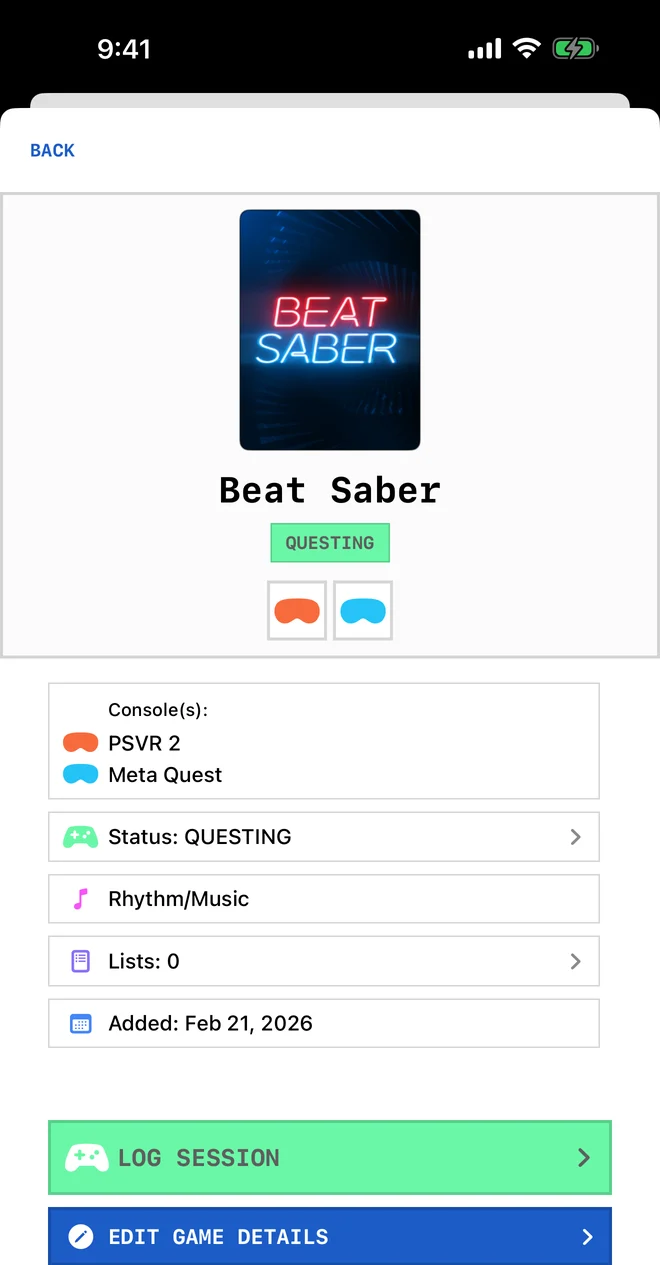
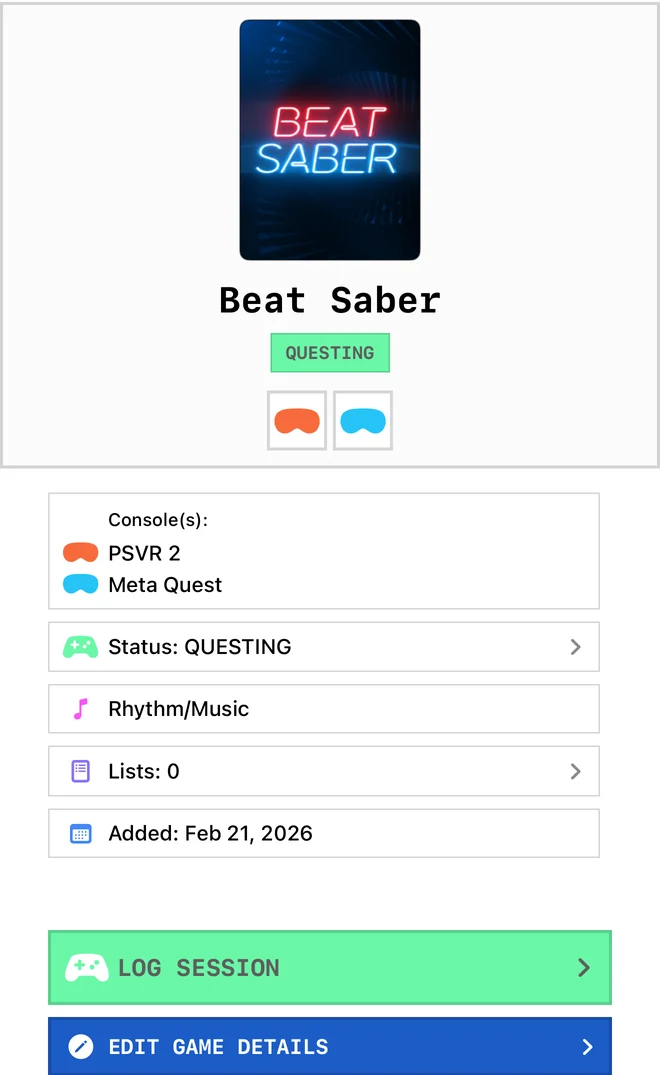
Game page cropped clean; lock card removed

diff --git a/index.html b/index.html
@@ -228,6 +228,8 @@ a{color:var(--action)}
 .chipline i{font-style:normal;font:12px/1.2 ui-monospace,Menlo,monospace;padding:5px 8px;color:var(--ink);
   border:1px solid color-mix(in srgb,var(--action) 35%,var(--rule));background:color-mix(in srgb,var(--action) 7%,var(--panel))}
 @media(min-width:900px){.grid.three{grid-template-columns:repeat(3,1fr)}}
+@media(min-width:780px){.grid.one{grid-template-columns:1fr;max-width:620px}}
+.screen{border:1px solid var(--rule);border-radius:16px}
 
 footer{padding:60px 0;border-top:1px solid var(--rule);color:var(--dim);font-size:14px}
 /* Hidden only when JS is running. Unconditional, this left everything below the hero
@@ -404,7 +406,7 @@ footer{padding:60px 0;border-top:1px solid var(--rule);color:var(--dim);font-siz
 
     <div class="showcase">
       <figure class="shotwrap">
-        <img src="img/iphone-gamepage.webp" width="660" height="1265" loading="lazy"
+        <img class="screen" src="img/iphone-gamepage.webp" width="660" height="1075" loading="lazy"
              alt="A game's page on iPhone: the Beat Saber cover, its status and consoles, and a large Log Session button.">
       </figure>
       <div>
@@ -444,13 +446,10 @@ footer{padding:60px 0;border-top:1px solid var(--rule);color:var(--dim);font-siz
       no server in the middle — which is also why there's nothing to cancel.</p>
 
 
-    <div class="grid">
+    <div class="grid one">
       <div class="cell"><span class="glyph">🎙</span><h3>Or just say so</h3>
         <p>"Hey Siri, log Hades in Quest Chronicle." Name the game in the same breath and the
           app never has to open.</p></div>
-      <div class="cell"><span class="glyph">🔒</span><h3>Never a game you don't own</h3>
-        <p>It only logs titles already in your library, so a housemate borrowing the console can't
-          quietly rewrite your history.</p></div>
     </div>
   </div>
 </section>

diff --git a/preview-journey.html b/preview-journey.html
@@ -268,6 +268,8 @@ a{color:var(--action)}
 .chipline i{font-style:normal;font:12px/1.2 ui-monospace,Menlo,monospace;padding:5px 8px;color:var(--ink);
   border:1px solid color-mix(in srgb,var(--action) 35%,var(--rule));background:color-mix(in srgb,var(--action) 7%,var(--panel))}
 @media(min-width:900px){.grid.three{grid-template-columns:repeat(3,1fr)}}
+@media(min-width:780px){.grid.one{grid-template-columns:1fr;max-width:620px}}
+.screen{border:1px solid var(--rule);border-radius:16px}
 
 footer{padding:60px 0;border-top:1px solid var(--rule);color:var(--dim);font-size:14px}
 /* Hidden only when JS is running. Unconditional, this left everything below the hero
@@ -462,7 +464,7 @@ footer{padding:60px 0;border-top:1px solid var(--rule);color:var(--dim);font-siz
 
     <div class="showcase">
       <figure class="shotwrap">
-        <img src="img/iphone-gamepage.webp" width="660" height="1265" loading="lazy"
+        <img class="screen" src="img/iphone-gamepage.webp" width="660" height="1075" loading="lazy"
              alt="A game's page on iPhone: the Beat Saber cover, its status and consoles, and a large Log Session button.">
       </figure>
       <div>
@@ -502,13 +504,10 @@ footer{padding:60px 0;border-top:1px solid var(--rule);color:var(--dim);font-siz
       no server in the middle — which is also why there's nothing to cancel.</p>
 
 
-    <div class="grid">
+    <div class="grid one">
       <div class="cell"><span class="glyph">🎙</span><h3>Or just say so</h3>
         <p>"Hey Siri, log Hades in Quest Chronicle." Name the game in the same breath and the
           app never has to open.</p></div>
-      <div class="cell"><span class="glyph">🔒</span><h3>Never a game you don't own</h3>
-        <p>It only logs titles already in your library, so a housemate borrowing the console can't
-          quietly rewrite your history.</p></div>
     </div>
   </div>
 </section>
